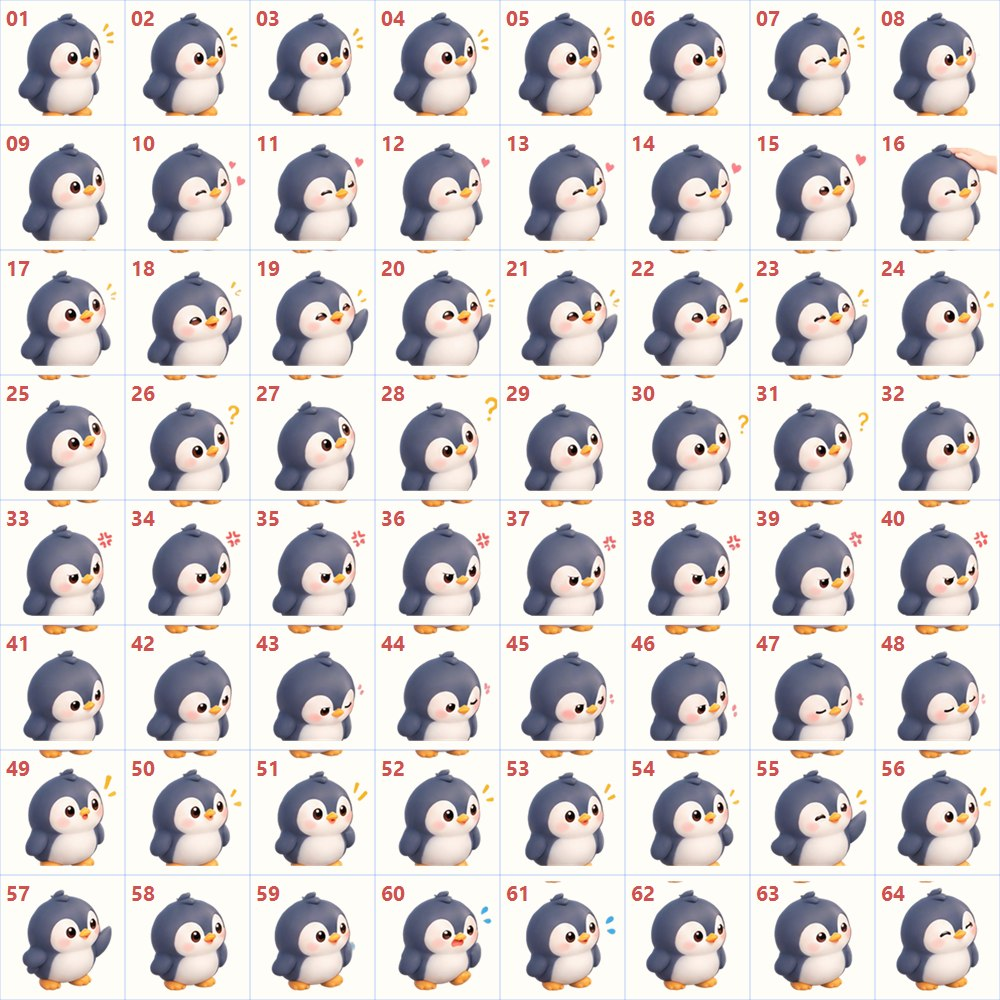
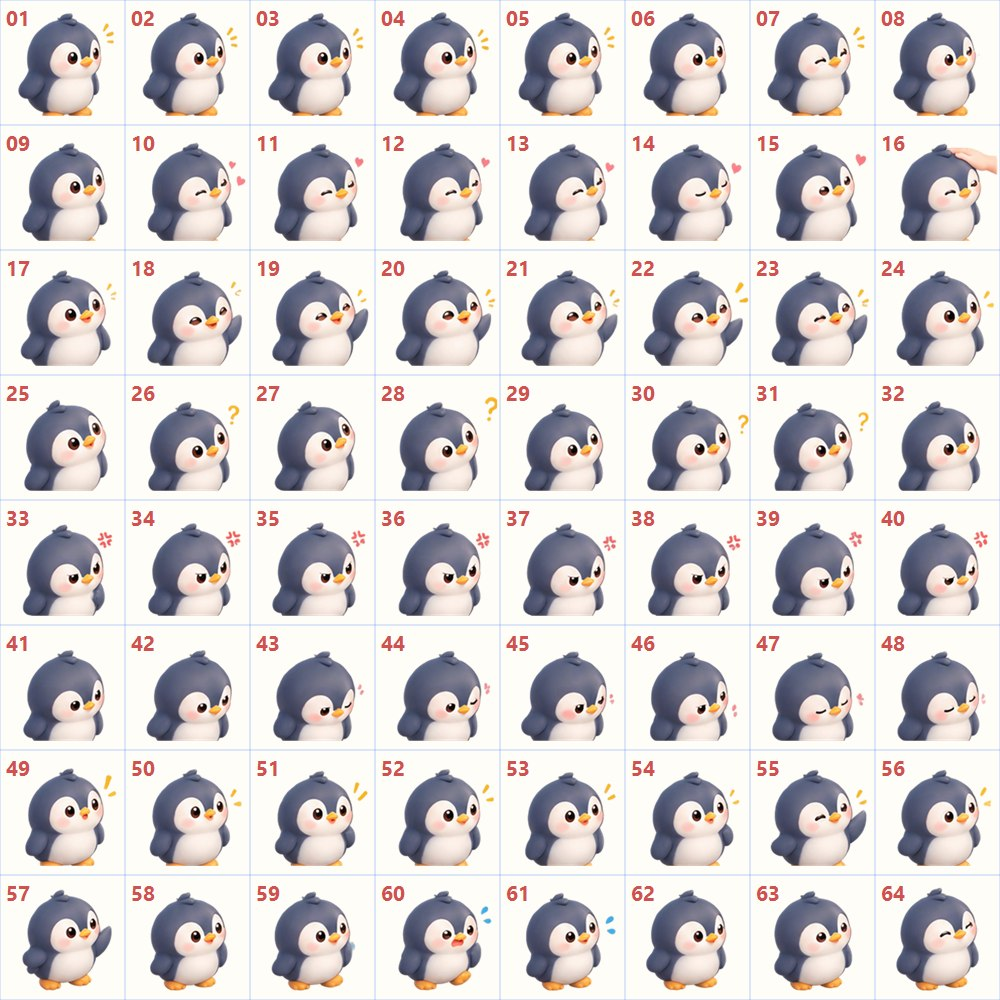
Fix stray top blobs in action/eatSleep atlases
- SpriteSlicer: add RemoveTopStray to the slice pipeline. Per cell it drops
  connected components (other than the largest) that touch the top 16px band,
  so the previous row's feet no longer bleed onto the pet's head
- Add a `cleanup` CLI mode; run it on Pet_Action / Pet_EatSleep (idle/move
  had no stray blobs and are unchanged)
- Regenerate their docs previews; update DEVELOPMENT (pipeline + mode) and CHANGELOG

diff --git a/tools/SpriteSlicer/Program.cs b/tools/SpriteSlicer/Program.cs
@@ -13,6 +13,12 @@ if (args.Length >= 2 && args[0] == "measure")
     return 0;
 }
 
+if (args.Length >= 2 && args[0] == "cleanup")
+{
+    Cleanup(args[1]);
+    return 0;
+}
+
 if (args.Length >= 3 && args[0] == "makeico")
 {
     MakeIco(args[1], args[2]);
@@ -45,6 +51,7 @@ using (var g = Graphics.FromImage(atlas))
 
 CleanAlpha(atlas, 40);
 CleanBoundaries(atlas, 8);
+RemoveTopStray(atlas, 16);
 NormalizeAnchors(atlas);
 
 Directory.CreateDirectory(Path.GetDirectoryName(atlasOut)!);
@@ -317,6 +324,113 @@ static void CleanBoundaries(Bitmap bmp, int margin)
             buffer[i + 1] = 0;
             buffer[i + 2] = 0;
             buffer[i + 3] = 0;
+        }
+    }
+
+    Marshal.Copy(buffer, 0, data.Scan0, bytes);
+    bmp.UnlockBits(data);
+}
+
+static void Cleanup(string path)
+{
+    // 就地在已加载的位图上处理，保存到临时文件后替换，避免 GDI+ 复制导致的像素改动。
+    string tmp = path + ".tmp.png";
+    using (var bmp = new Bitmap(path))
+    {
+        RemoveTopStray(bmp, 16);
+        bmp.Save(tmp, ImageFormat.Png);
+    }
+
+    File.Delete(path);
+    File.Move(tmp, path);
+    Console.WriteLine($"cleaned: {path}");
+}
+
+/// <summary>
+/// 去掉每个格子顶部与主体分离的杂块（AI 原图里相邻行溢出的脚 / 边角）。
+/// 只删「不是最大连通块、且触及顶部 band」的组件，保留爱心 / 问号 / Zzz 等悬浮元素。
+/// </summary>
+static void RemoveTopStray(Bitmap bmp, int band)
+{
+    Rectangle rect = new(0, 0, bmp.Width, bmp.Height);
+    BitmapData data = bmp.LockBits(rect, ImageLockMode.ReadWrite, PixelFormat.Format32bppArgb);
+    int stride = data.Stride;
+    int bytes = stride * bmp.Height;
+    byte[] buffer = new byte[bytes];
+    Marshal.Copy(data.Scan0, buffer, 0, bytes);
+
+    bool[] visited = new bool[Cell * Cell];
+    int[] stack = new int[Cell * Cell];
+    var components = new List<List<int>>();
+
+    for (int r = 0; r < Grid; r++)
+    {
+        for (int c = 0; c < Grid; c++)
+        {
+            int ox = c * Cell, oy = r * Cell;
+            Array.Clear(visited, 0, visited.Length);
+            components.Clear();
+
+            for (int y = 0; y < Cell; y++)
+            {
+                for (int x = 0; x < Cell; x++)
+                {
+                    int idx = y * Cell + x;
+                    if (visited[idx]) continue;
+                    visited[idx] = true;
+                    if (buffer[(oy + y) * stride + (ox + x) * 4 + 3] <= 16) continue;
+
+                    var members = new List<int>();
+                    int sp = 0;
+                    stack[sp++] = idx;
+                    while (sp > 0)
+                    {
+                        int cur = stack[--sp];
+                        members.Add(cur);
+                        int cy = cur / Cell, cx = cur % Cell;
+                        for (int dy = -1; dy <= 1; dy++)
+                        {
+                            for (int dx = -1; dx <= 1; dx++)
+                            {
+                                if (dx == 0 && dy == 0) continue;
+                                int ny = cy + dy, nx = cx + dx;
+                                if (ny < 0 || ny >= Cell || nx < 0 || nx >= Cell) continue;
+                                int ni = ny * Cell + nx;
+                                if (visited[ni]) continue;
+                                visited[ni] = true;
+                                if (buffer[(oy + ny) * stride + (ox + nx) * 4 + 3] <= 16) continue;
+                                stack[sp++] = ni;
+                            }
+                        }
+                    }
+                    components.Add(members);
+                }
+            }
+
+            if (components.Count < 2) continue;
+
+            int biggest = 0;
+            for (int i = 1; i < components.Count; i++)
+                if (components[i].Count > components[biggest].Count) biggest = i;
+
+            for (int i = 0; i < components.Count; i++)
+            {
+                if (i == biggest) continue;
+
+                int minY = Cell;
+                foreach (int m in components[i])
+                {
+                    int my = m / Cell;
+                    if (my < minY) minY = my;
+                }
+                if (minY >= band) continue;
+
+                foreach (int m in components[i])
+                {
+                    int p = (oy + m / Cell) * stride + (ox + m % Cell) * 4;
+                    buffer[p] = 0; buffer[p + 1] = 0; buffer[p + 2] = 0; buffer[p + 3] = 0;
+                }
+            }
         }
     }
 

diff --git a/docs/CHANGELOG.md b/docs/CHANGELOG.md
@@ -30,6 +30,10 @@
 ### 优化
 - 开心 / 好奇 改用 `Pet_Action` 的专用表情动画（原为待机图集里的简化帧）
 
+### 修复
+- 切图工具新增**顶部杂点清理**（`RemoveTopStray`，并新增 `cleanup` 模式）：修复 AI 原图相邻行溢出，导致互动 / 吃睡动画顶部出现一截"脚"的穿模问题
+- 清理只删除「非主体连通块且触及顶部」的碎块，保留爱心 / 问号 / `Zzz` 等悬浮元素
+
 ## [1.1.2] - 2026-09-12
 
 ### 修复
